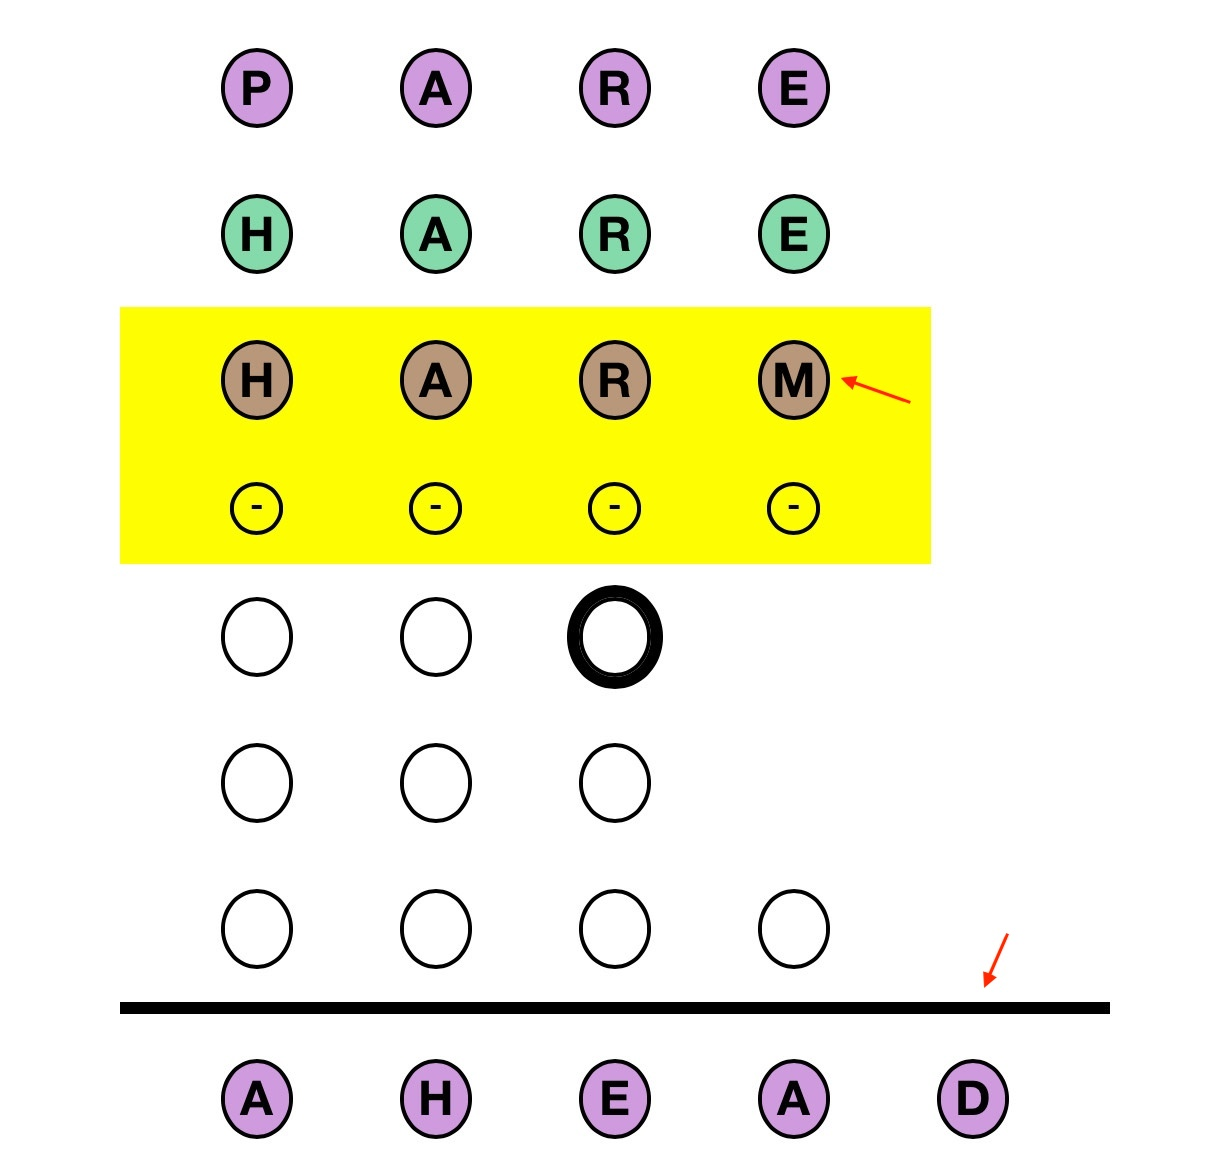
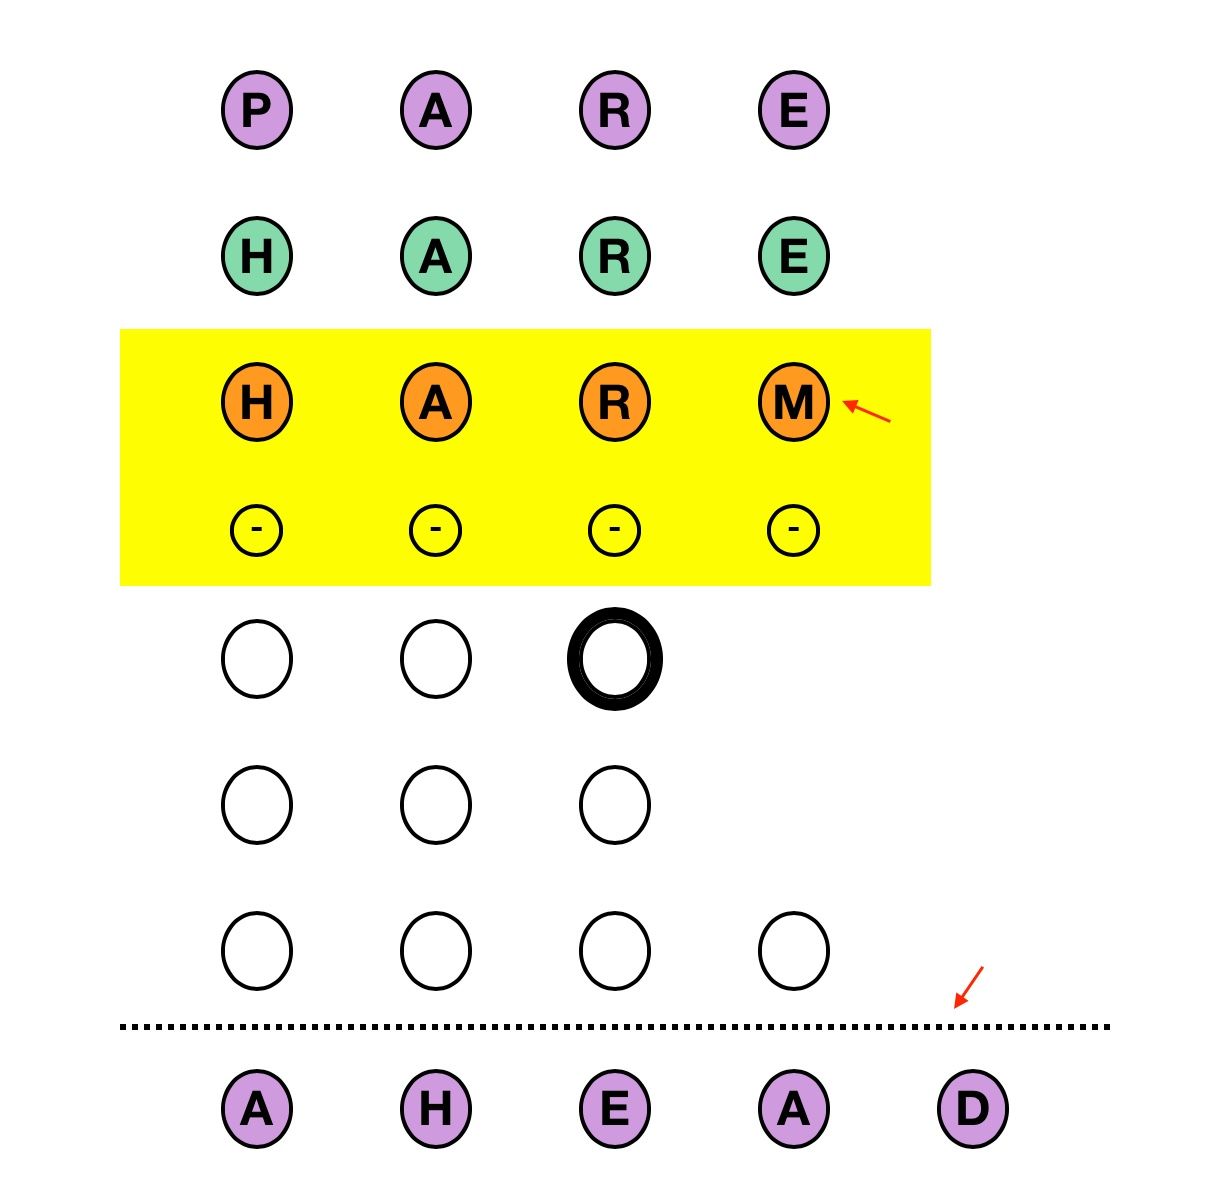
Updated help

diff --git a/test/Test.js b/test/Test.js
@@ -1584,15 +1584,16 @@ class Test extends BaseLogger {
         dgs1.setStat("streak", 10); // pretend we have 10 in a row.
         dgs1.finishGame();          // this will make 11
 
-        // Move ahead two days ahead.  This tests if we recognize that the streak is over
-        // because we didn't play yesterday.
+        // Move ahead two days ahead.  This tests if we recognize that the streak is starting over
+        // because we didn't play yesterday.  The streak starts at 1, not zero, because it counts games started.
         Persistence.saveTestEpochDaysAgo(Test.TEST_EPOCH_DAYS_AGO + 2);
 
-        // this should recover the older game, see that it is old, and create a new game. The streak should be over.
+        // this should recover the older game, see that it is old, and create a new game. The streak should be reset to 1.
+        //
         let dgs2 = DailyGameState.factory(this.fullDict);
         this.verifyEqual(dgs1.dailyGameNumber, Test.TEST_EPOCH_DAYS_AGO, "dgs1.dailyGameNumber") &&
             this.verifyEqual(dgs2.dailyGameNumber, Test.TEST_EPOCH_DAYS_AGO+2, "dgs2.dailyGameNumber") &&
-            this.verifyEqual(dgs2.statsBlob["streak"], 0, "recovered streak") &&
+            this.verifyEqual(dgs2.statsBlob["streak"], 1, "recovered streak") &&
             this.hadNoErrors();
     }
 

diff --git a/docs/javascript/HelpDisplay.js b/docs/javascript/HelpDisplay.js
@@ -137,7 +137,7 @@ class HelpDisplay extends AuxiliaryDisplay {
         <p>
         That choice made the solution longer than WordChain's solution.
         If your played word increases the number of steps from the start to the target word,
-        the background of its letters will be brown.
+        the background of its letters will be orange.
         You may have wondered what that line is in the display grid:
         it indicates while you are playing what your current score is.
         After our one extra word, we see there is one word below the line -- our current score is 1.
@@ -152,6 +152,7 @@ class HelpDisplay extends AuxiliaryDisplay {
         <img src="${Const.IMAGE_URL}/Help12.v1.jpg" width="350px"/>
         <p>
         The gray letters indicate you got some help.
+        The 'Show Word' button is now disabled, because you are allowed to show only one word per game.
         Now we finish off the game as we did before.
         </p>
 

diff --git a/docs/javascript/GameState.js b/docs/javascript/GameState.js
@@ -424,7 +424,7 @@ class DailyGameState extends GameState{
                         // we didn't play yesterday's game; streak is over
                         COV(7, CL);
                         Const.GL_DEBUG && logger.logDebug("Did not play yesterday's game: streak is over", "daily");
-                        recoveredDailyGameState.setStat("streak", 0);
+                        recoveredDailyGameState.setStat("streak", 1);
                     }
                     // now, update game state to today's game, playing from the start.
                     // If setToTodaysGame() sets the game to the broken one, we will
